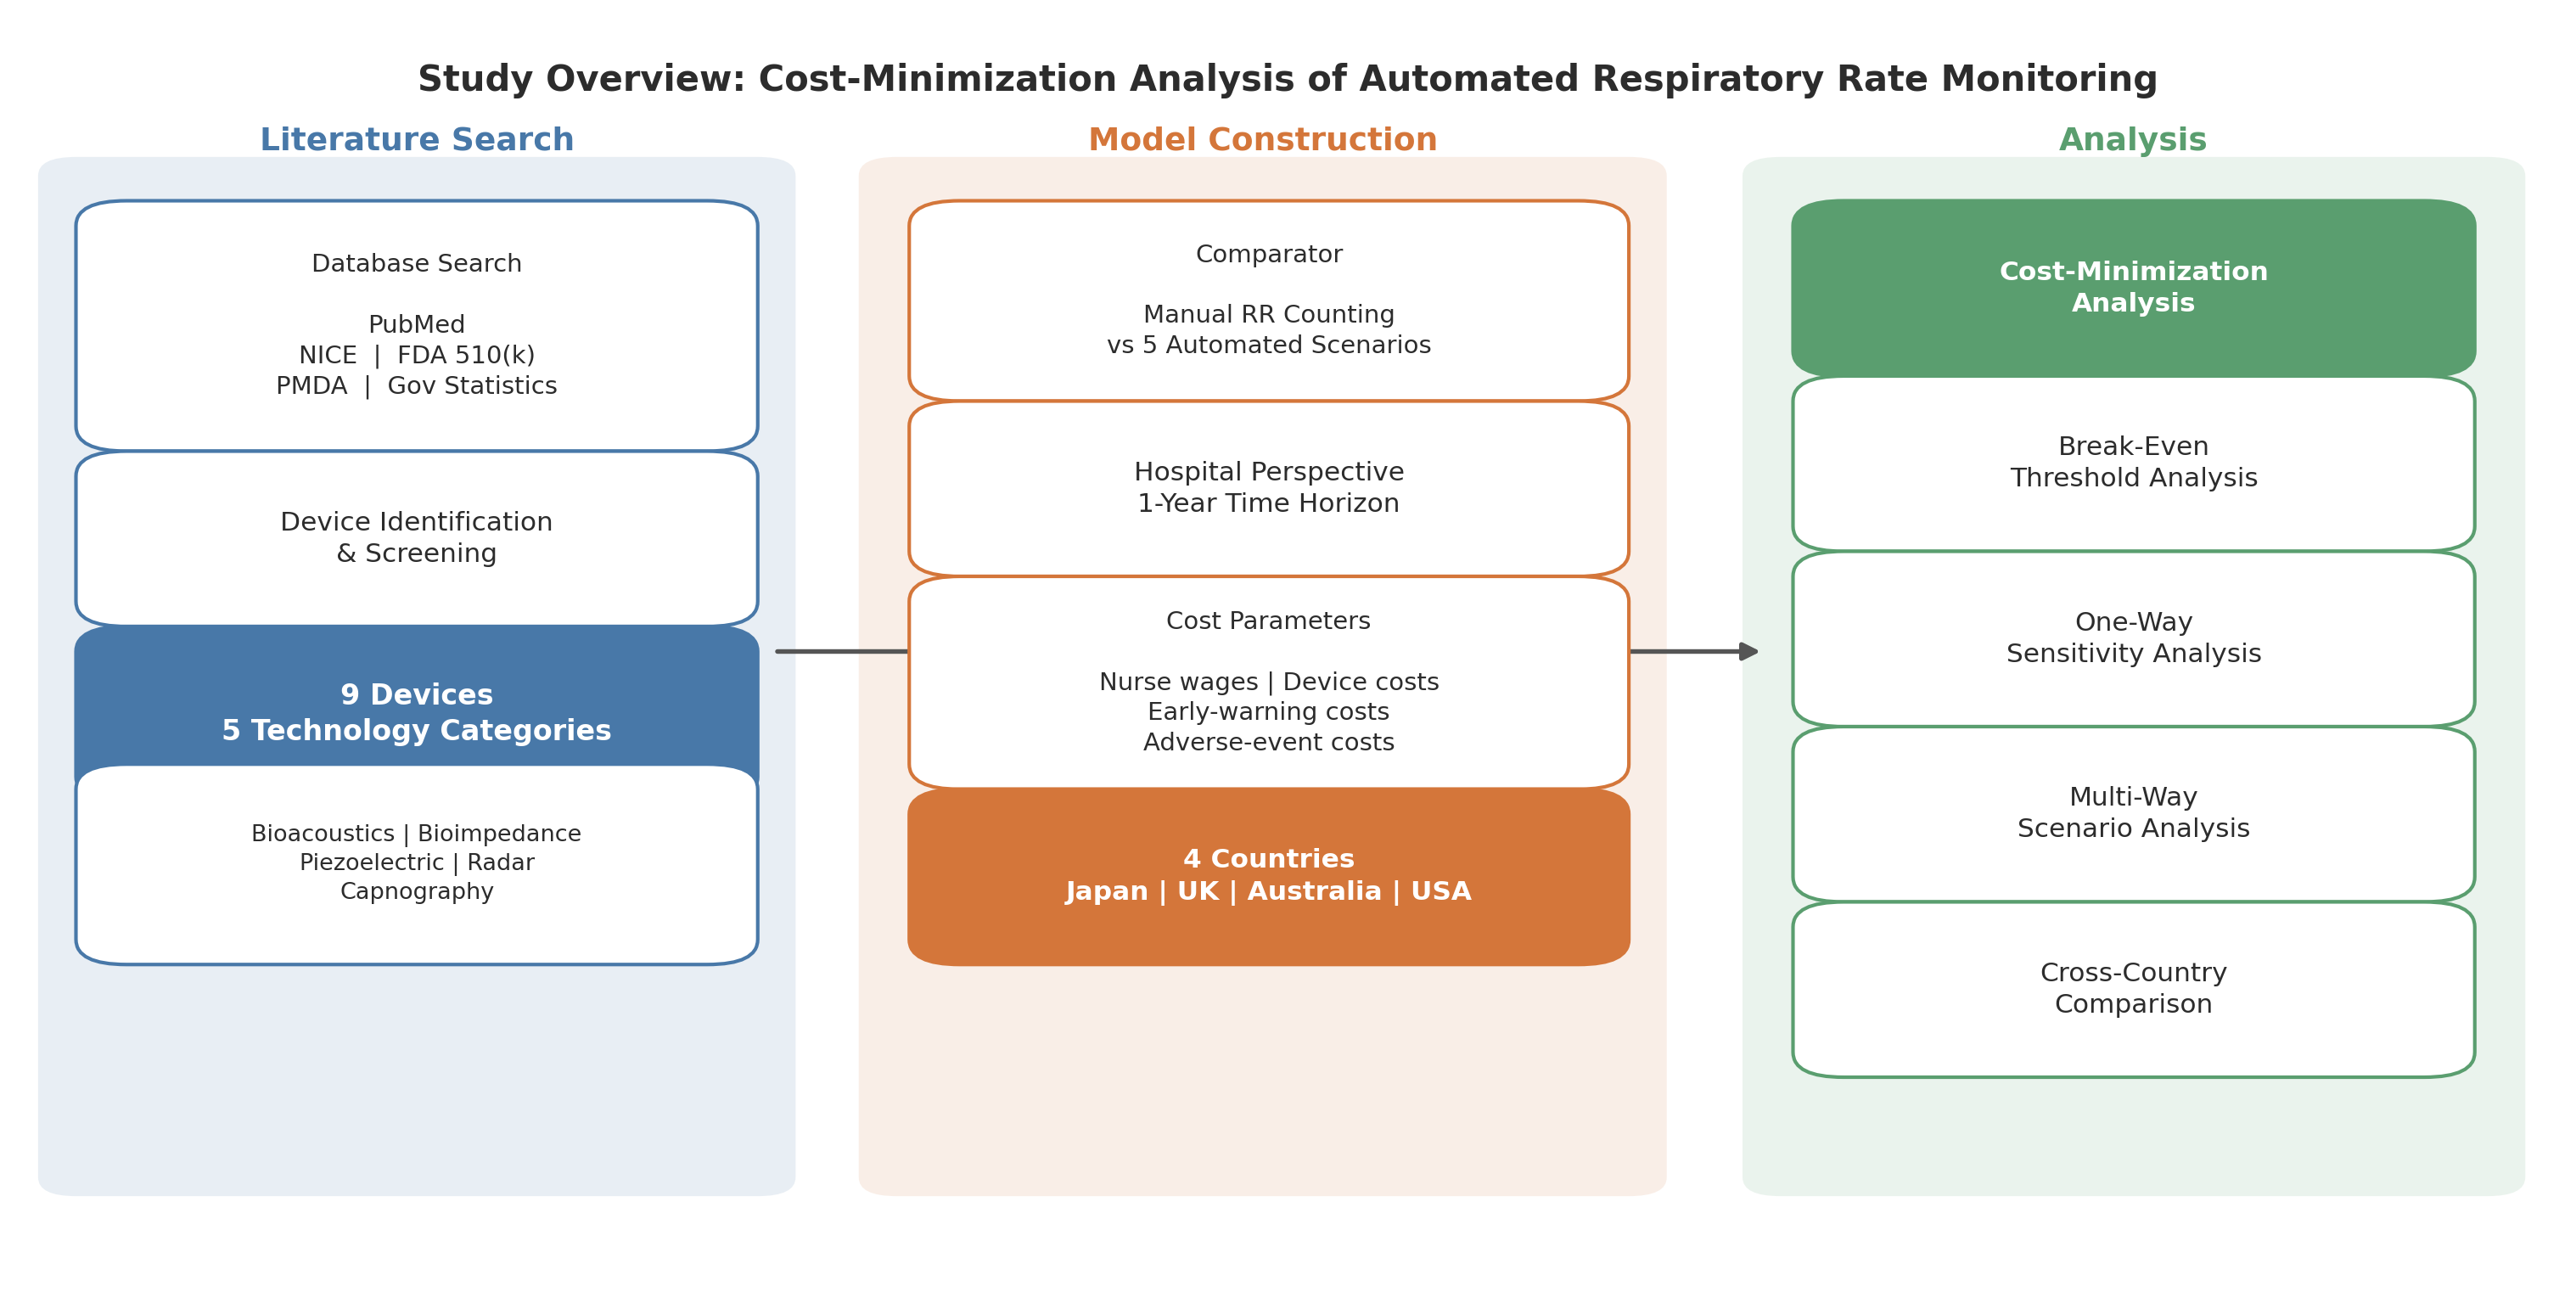
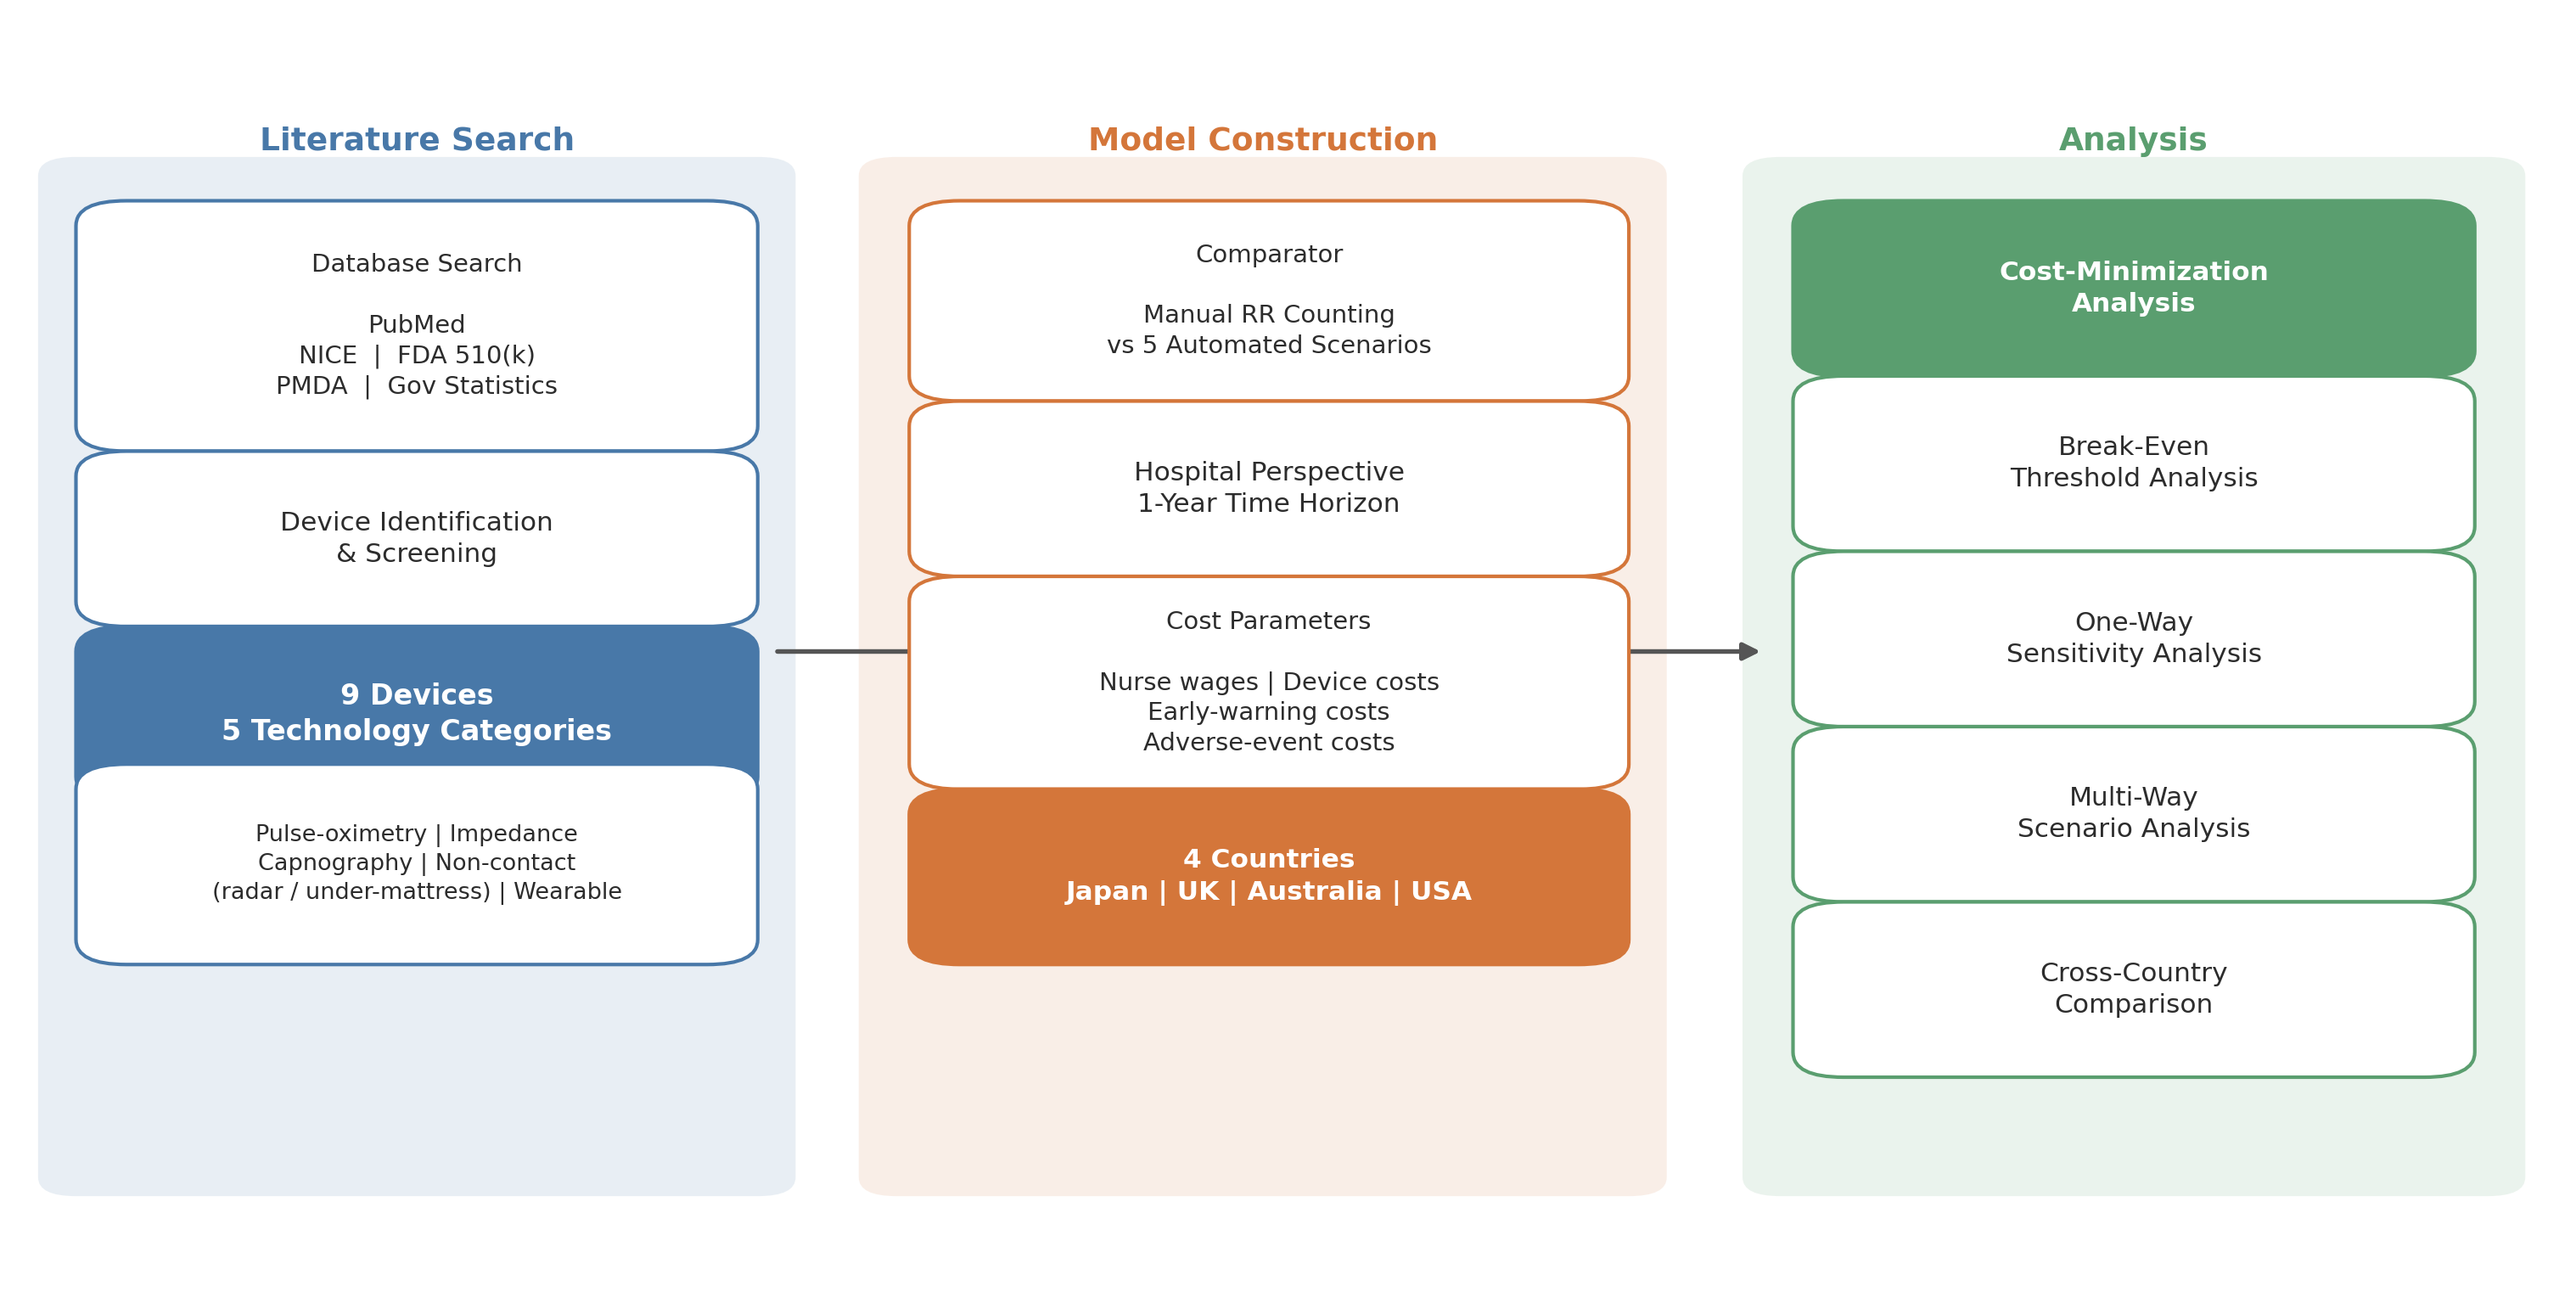
Codex Round 5 audit: source count, Figure 1 categories/title, section renumber, word count
Six additional pre-submission issues addressed.

1. "26 primary sources" -> "24 primary sources"
   Methods Results count stated "26 primary sources" but the
   reference list and sources.csv are now 24. Updated to 24 and
   recalculated the breakdown to match actual sources.csv:
   - 14 peer-reviewed clinical validation and methodology studies
   -  5 HTA and regulatory documents
   -  2 government statistics and parliamentary records
   -  2 clinical guidelines
   -  1 corporate press release
   Sum: 24 (matches manuscript reference list and sources.csv).

2. Figure 1 technology category text corrected
   The "Literature Search Result" annotation box in fig1_study_overview
   previously listed "Bioacoustics | Bioimpedance / Piezoelectric |
   Radar / Capnography" -- but "Bioacoustics" is not a category used
   anywhere else in this manuscript (no acoustic device is in our
   device list), and the labels did not match the categories actually
   described in Methods and Supplementary Table S1.

   Updated to the 5 categories actually used in this study:
   "Pulse-oximetry | Impedance / Capnography | Non-contact (radar /
   under-mattress) | Wearable" -- matching the Methods text and S1.

3. Figure 1 in-image title removed
   06_study_overview.py still had an in-figure title text "Study
   Overview: Cost-Minimization Analysis of Automated Respiratory
   Rate Monitoring" at the top of the canvas. Removed entirely
[…]

Changed region(s): [[0.1549, 0.0306, 0.8362, 0.0919], [0.0929, 0.6124, 0.2478, 0.7042]]

diff --git a/analysis/06_study_overview.py b/analysis/06_study_overview.py
@@ -137,7 +137,7 @@ draw_box(ax, bx, res_y, bw, BOX_H,
 # Technology categories annotation
 cat_y = res_y - 0.13
 draw_box(ax, bx, cat_y, bw, 0.12,
-         "Bioacoustics | Bioimpedance\nPiezoelectric | Radar\nCapnography",
+         "Pulse-oximetry | Impedance\nCapnography | Non-contact\n(radar / under-mattress) | Wearable",
          edgecolor=COL_LIT, fontsize=6.5)
 draw_arrow(ax, bx + bw/2, res_y, bx + bw/2, cat_y + 0.12 + 0.005)
 
@@ -218,13 +218,7 @@ draw_arrow(ax, 0.29 + 0.005, arr1_y, mx - 0.005, arr1_y)
 arr2_y = 0.50
 draw_arrow(ax, mx + mw + 0.005, arr2_y, 0.695 - 0.005, arr2_y)
 
-# ── Title ───────────────────────────────────────────────────────────
-ax.text(
-    0.50, 0.97,
-    "Study Overview: Cost-Minimization Analysis of Automated Respiratory Rate Monitoring",
-    ha="center", va="top", fontsize=10, fontweight="bold",
-    color=COL_TEXT,
-)
+# ── Title removed per JCMC convention (figure titles belong in manuscript text only) ─
 
 # ── Save ────────────────────────────────────────────────────────────
 fig.tight_layout(pad=0.3)

diff --git a/docs/manuscript_20260516.md b/docs/manuscript_20260516.md
@@ -14,7 +14,7 @@ Kenichi Saito¹,²; Kazumasa Kishimoto³,⁴,⁵; Naoki Ishizuka¹; Kaori Kusuda
 ## Target Journal
 Journal of Clinical Monitoring and Computing (Springer)
 
-Word count: ~4,800 (main text, excluding abstract, references, tables, and figure legends)
+Word count: ~5,400 (main text from Introduction through Conclusions, excluding abstract, references, tables, table legends, figure legends, and supplementary material)
 Display items: 6 figures, 3 tables (main text) + 4 supplementary tables
 
 ---
@@ -49,7 +49,7 @@ The purpose of this study is to develop a unified, multi-technology, cross-count
 
 ### Study Design and Reporting
 
-This study is a health economic modeling study that constructs a deterministic decision-analytic cost-minimization and break-even model for automated respiratory rate monitoring in general hospital wards. The primary analysis is a threshold analysis: rather than estimating the actual cost-effectiveness of device adoption (which would require empirical data on event reduction rates), we calculate the break-even thresholds at which each monitoring scenario achieves cost-neutrality compared with manual counting. The study follows the Consolidated Health Economic Evaluation Reporting Standards 2022 (CHEERS 2022) checklist [11]; a completed 28-item checklist is provided in Supplementary S10.
+This study is a health economic modeling study that constructs a deterministic decision-analytic cost-minimization and break-even model for automated respiratory rate monitoring in general hospital wards. The primary analysis is a threshold analysis: rather than estimating the actual cost-effectiveness of device adoption (which would require empirical data on event reduction rates), we calculate the break-even thresholds at which each monitoring scenario achieves cost-neutrality compared with manual counting. The study follows the Consolidated Health Economic Evaluation Reporting Standards 2022 (CHEERS 2022) checklist [11]; a completed 28-item checklist is provided in Supplementary S9.
 
 To parameterize the model, we conducted a comprehensive literature search to identify: (a) commercially available automated RR monitoring devices suitable for general ward deployment, (b) published accuracy data for these devices (Bland-Altman bias and limits of agreement), and (c) cost parameters including device prices, consumable costs, staff time, and adverse event costs from multiple national healthcare systems. The literature search was designed to inform model inputs rather than to produce a formal systematic review; accordingly, no systematic review protocol was registered.
 
@@ -145,11 +145,11 @@ An overview of the study design, data sources, and analytical framework is prese
 
 ### Technology Landscape: Identified Devices and Accuracy Characteristics
 
-The literature search identified 26 primary sources used to parameterize the model, comprising peer-reviewed clinical validation studies (n=8), health technology assessments and regulatory documents (n=7), government cost statistics (n=5), and other published sources (n=6). We identified nine commercially available devices from seven manufacturers across five technology categories (Supplementary Table S1). These devices represent the current landscape of automated RR monitoring options for general ward deployment and provide the technological context for the cost-effectiveness model.
+The literature search identified 24 primary sources used to parameterize the model, comprising peer-reviewed clinical validation and methodology studies (n=14), health technology assessment and regulatory documents (n=5), government statistics and parliamentary records (n=2), clinical guidelines (n=2), and a corporate press release (n=1). We identified nine commercially available devices from seven manufacturers across five technology categories (Supplementary Table S1). These devices represent the current landscape of automated RR monitoring options for general ward deployment and provide the technological context for the cost-effectiveness model.
 
 **Regulatory status:** Seven of nine devices hold FDA 510(k) clearance, and all nine are CE-marked. Regarding Japanese regulatory status, the Nihon Kohden PVM-4000 series holds PMDA approval as a general medical device (一般医療機器) for the Japanese market; the Masimo Rad-G and Capnostream 35 are available in Japan through authorized distributors but formal PMDA device approval numbers were not identified in our search; the remaining devices (Neteera, Guardian M10, RespiraSense, Equivital) do not currently hold PMDA approval. The Vitalthings Guardian M10 achieved CE MDR Class IIb certification in 2024 but has not yet received FDA or PMDA clearance as of this writing [18]. The EarlySense under-mattress sensor, while widely cited in the literature, is no longer independently available; EarlySense's contact-free monitoring technology and intellectual property were acquired by Hillrom (now Baxter International) in February 2021 [19].
 
-**Accuracy data (Figure 2; Table 2):** Accuracy data were available for seven of nine devices, derived from eight studies or regulatory assessments. Direct comparison across devices is fundamentally limited by heterogeneity in reference standards (capnography, respiratory inductance plethysmography, manual counting, ECG-derived RR), patient populations, clinical settings, and statistical reporting conventions (95% vs. 98.9% LoA) (Table 2; Supplementary S5 and S8). Device-by-device accuracy findings are detailed in Supplementary S8; key results are summarized here.
+**Accuracy data (Figure 2; Table 2):** Accuracy data were available for seven of nine devices, derived from eight studies or regulatory assessments. Direct comparison across devices is fundamentally limited by heterogeneity in reference standards (capnography, respiratory inductance plethysmography, manual counting, ECG-derived RR), patient populations, clinical settings, and statistical reporting conventions (95% vs. 98.9% LoA) (Table 2; Supplementary S5 and S7). Device-by-device accuracy findings are detailed in Supplementary S7; key results are summarized here.
 
 Limits of agreement (LoA) ranged from ±1.1 breaths/min (radar-based Guardian M10 vs. respiratory inductance plethysmography [18]) to >±6 breaths/min (thoracic impedance vs. capnography across multiple studies [12–13]). Pulse-oximetry-derived RR showed intermediate LoA of ±3.1–4.0 breaths/min against capnography [20]. For context, manual nurse-documented RR showed LoA of −13.5 to +12.3 against capnography [13], illustrating the magnitude of the baseline measurement problem.
 

diff --git a/supplementary/supplementary_20260516.md b/supplementary/supplementary_20260516.md
@@ -191,7 +191,7 @@ All intermediate outputs are regenerated from source data. No manual data manipu
 
 ---
 
-## S8. Device-by-Device Accuracy Data (Detail)
+## S7. Device-by-Device Accuracy Data (Detail)
 
 This section provides detailed accuracy findings for each device category, supplementing the summary in the main text (Results: Technology Landscape).
 
@@ -215,7 +215,7 @@ The Neteera 130H/131H received FDA 510(k) clearance with reported accuracy of ap
 
 ---
 
-## S9. Supplementary Tables (Moved from Main Text)
+## S8. Supplementary Tables (Moved from Main Text)
 
 ### Supplementary Table S1. Device Characteristics
 
@@ -288,7 +288,7 @@ Break-even thresholds under simultaneous variation of all assumption parameters.
 
 ---
 
-## S10. CHEERS 2022 Reporting Checklist
+## S9. CHEERS 2022 Reporting Checklist
 
 Completed checklist per Husereau et al. (BMJ 2022;376:e067975) [11].
 